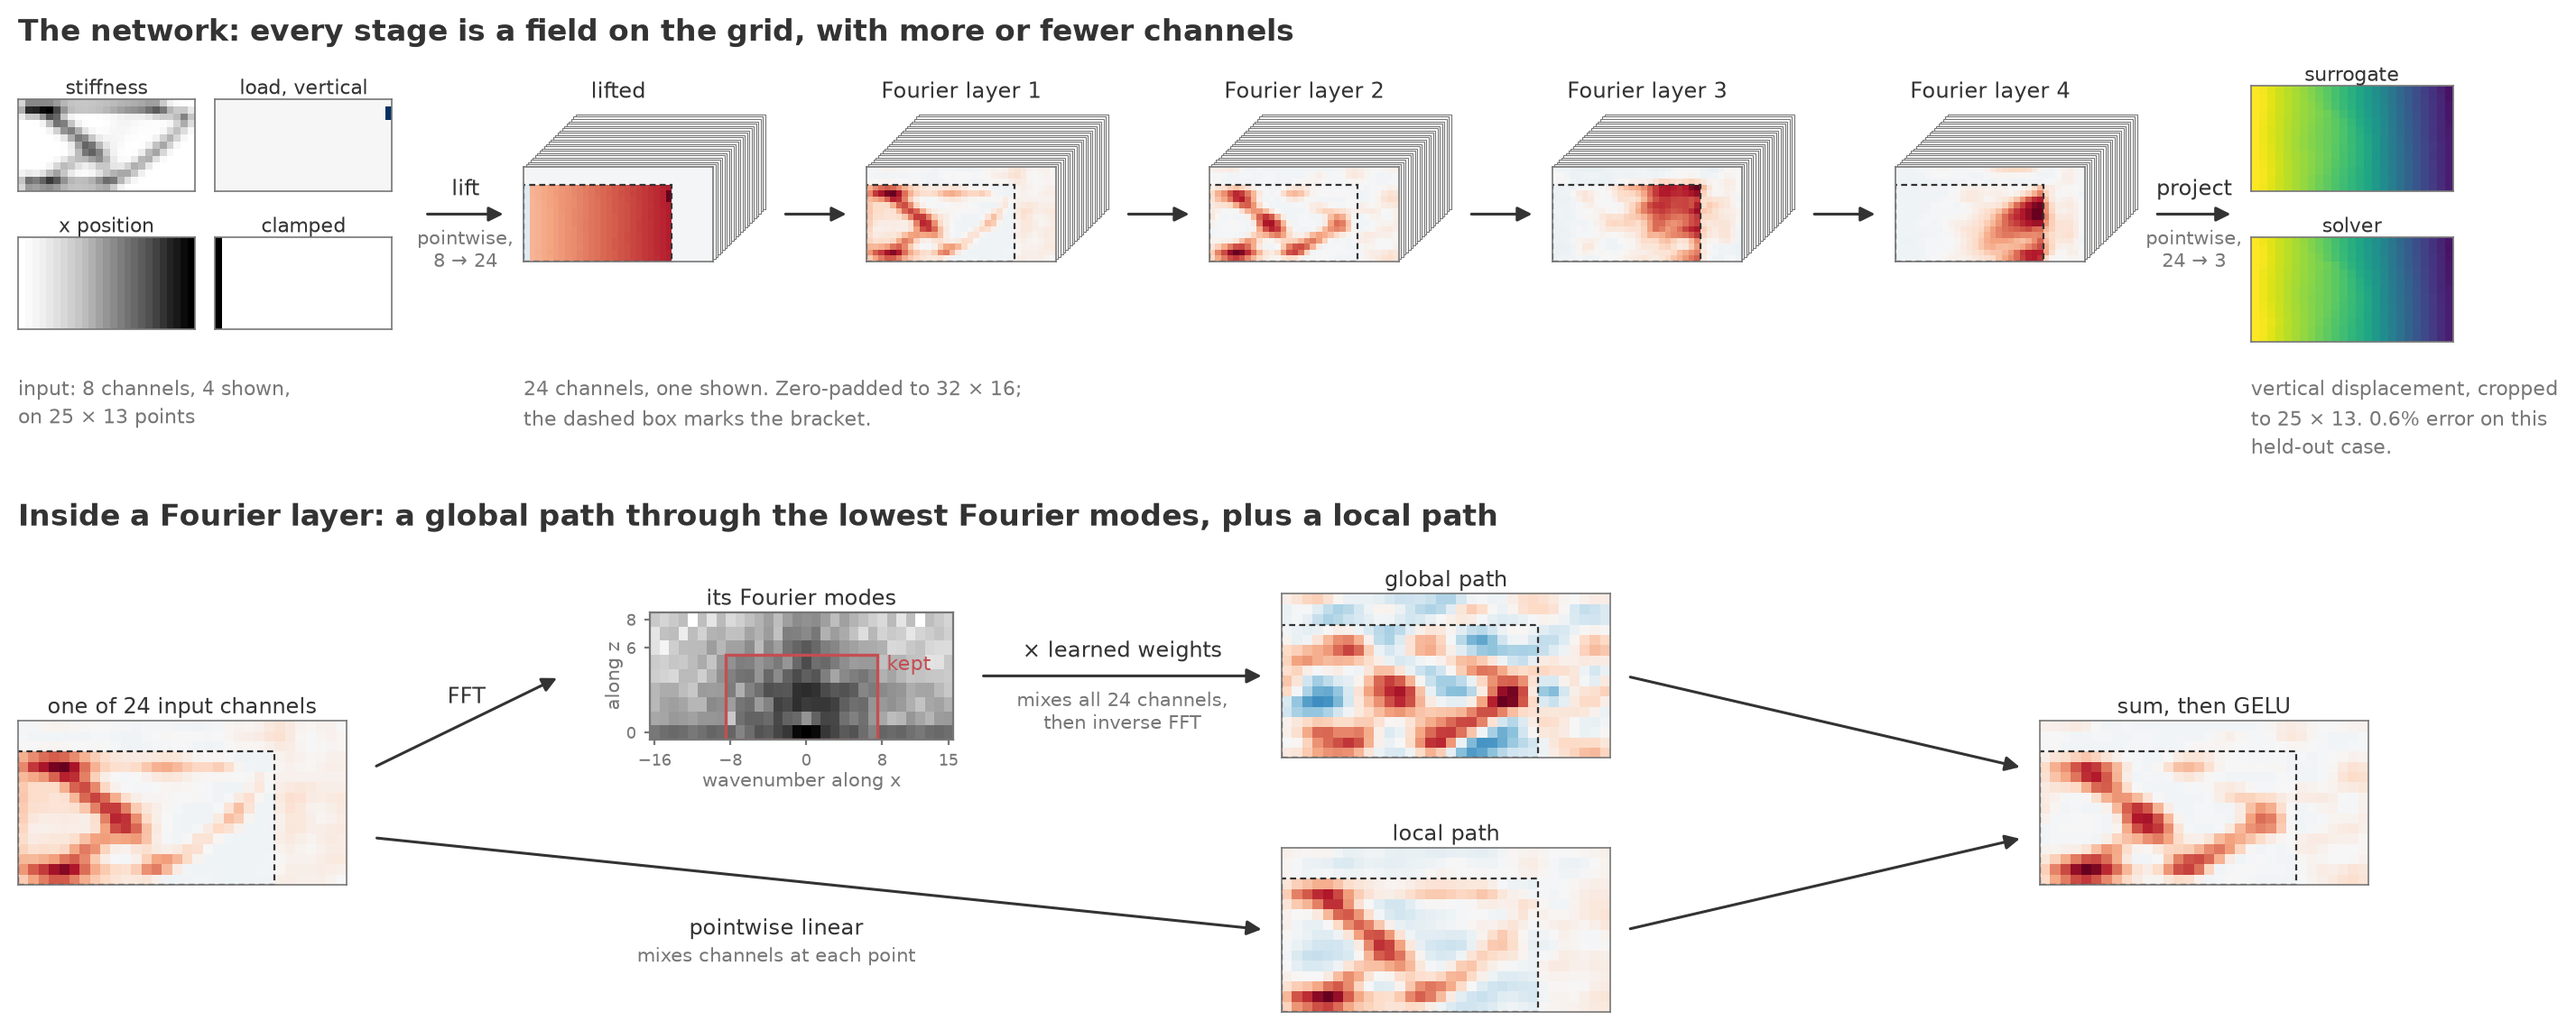
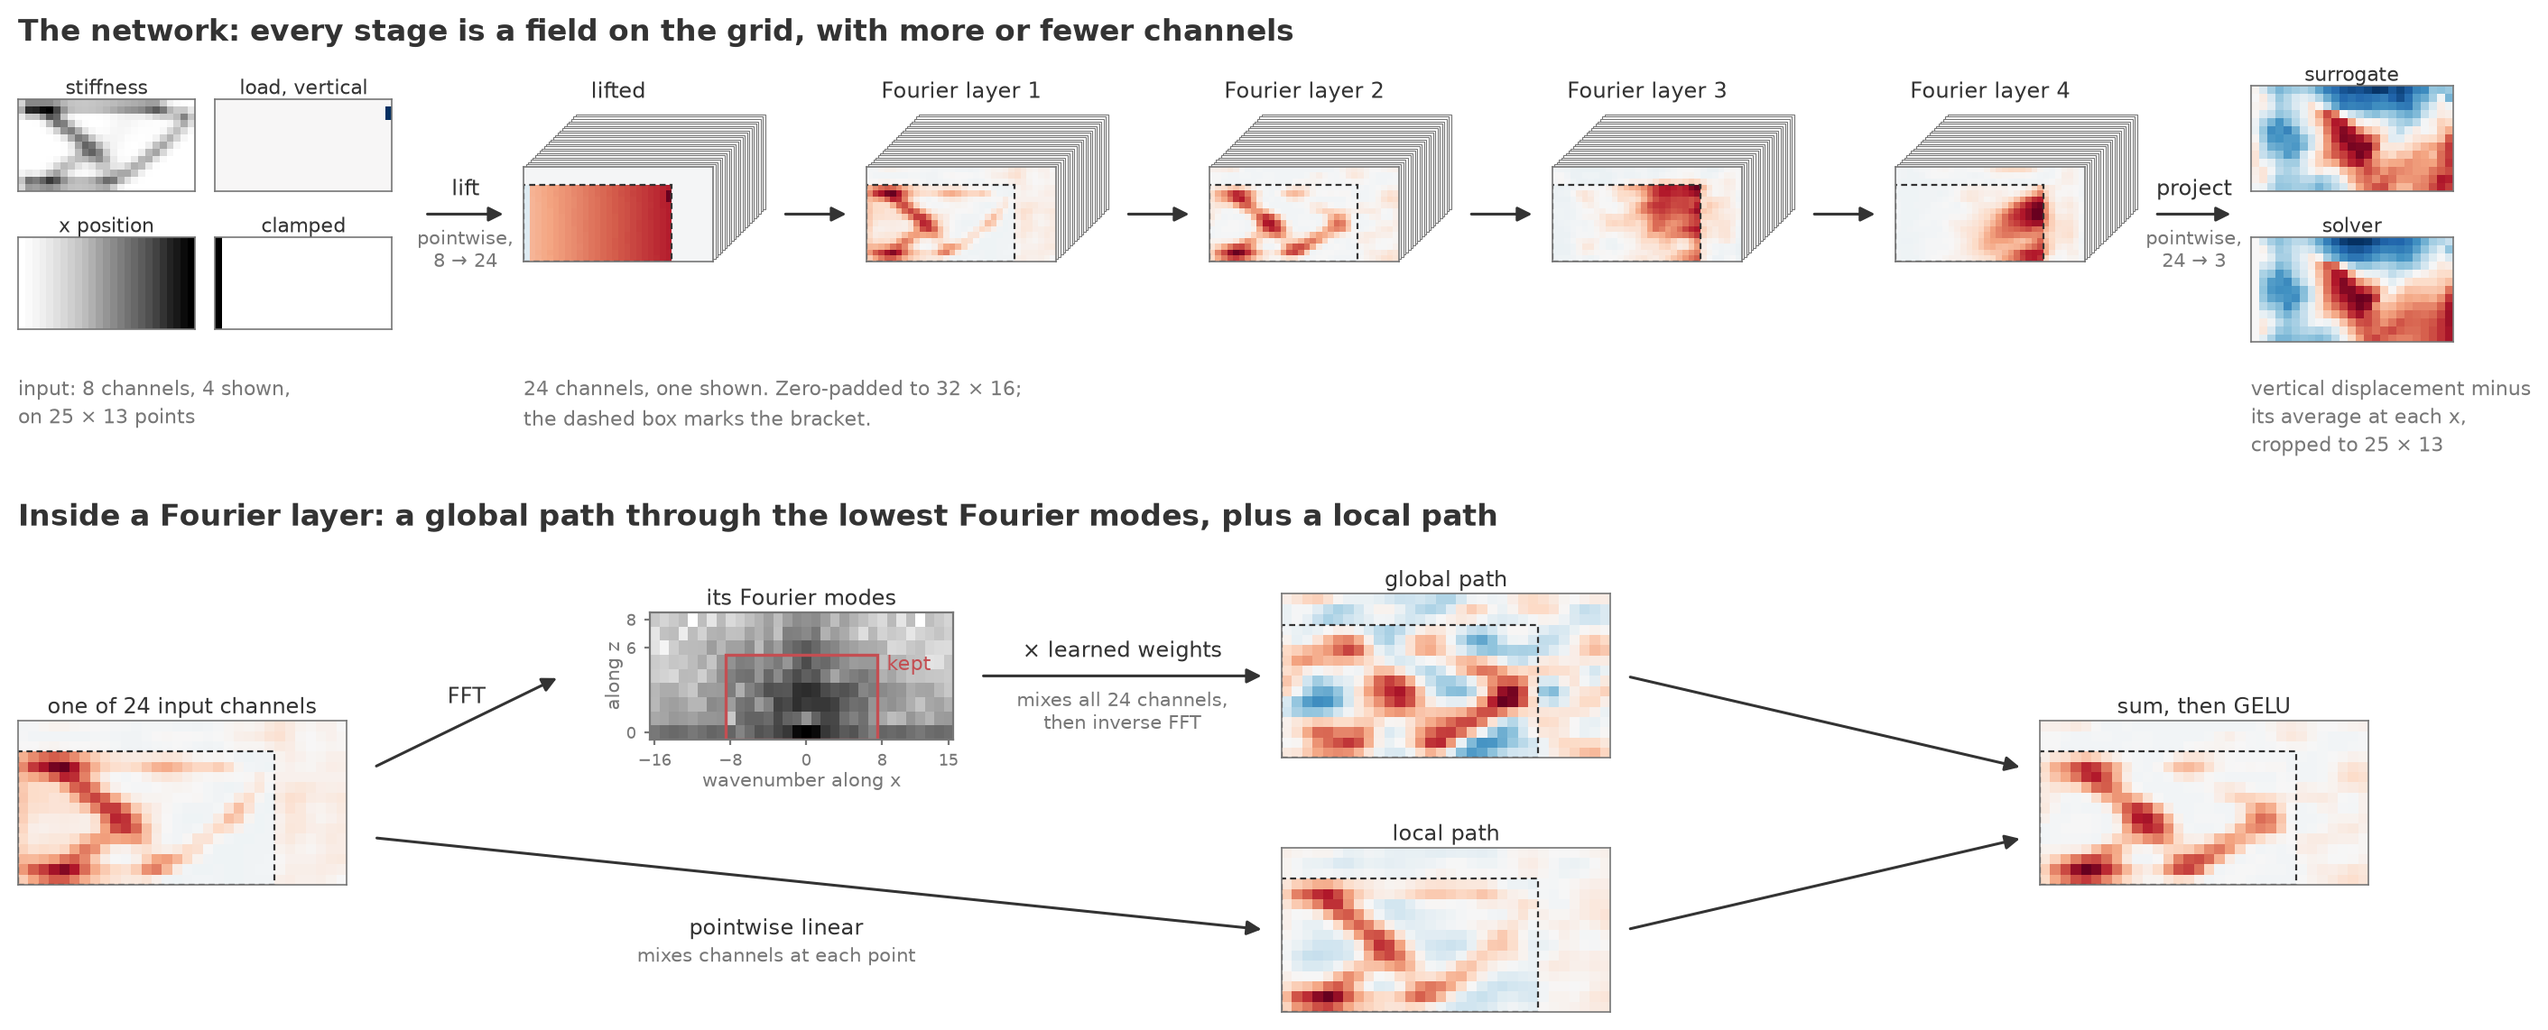
update fno figure

diff --git a/tutorial-topopt/make_fno_figure.py b/tutorial-topopt/make_fno_figure.py
@@ -121,7 +121,6 @@ def main() -> None:
     hidden, inside = activations(params, x)
     u_surrogate = np.asarray(no.to_grid(no.predict_displacement(params, u_scale, rho, forces, shape), shape))
     u_solver = np.asarray(no.to_grid(u_solver, shape))
-    error = np.linalg.norm(u_surrogate - u_solver) / np.linalg.norm(u_solver)
 
     fig = plt.figure(figsize=FIGSIZE, dpi=200)
 
@@ -157,17 +156,19 @@ def main() -> None:
     for left in lefts[:-1]:
         arrow(fig, (left + w + deck_right + 0.006, y1), (left + pitch - 0.006, y1))
 
+    # Vertical displacement is dominated by the bracket bending as a whole, a ramp from wall to tip.
+    # Subtracting the solver's average at each x leaves the part that depends on the design.
     out_left = lefts[-1] + pitch + 0.005
-    vmax = np.abs(u_solver[..., 2]).max()
+    bending = u_solver[..., 2].mean(axis=(1, 2), keepdims=True)
+    vmax = np.abs(side_view(u_solver[..., 2] - bending)).max()
     for j, (field, label) in enumerate([(u_surrogate, "surrogate"), (u_solver, "solver")]):
-        image = side_view(field[..., 2])
+        image = side_view(field[..., 2] - bending)
         h = 0.08 * image.shape[0] / image.shape[1] * ASPECT
         ax = image_axes(fig, out_left, y1 + 0.02 if j == 0 else y1 - 0.02 - h, 0.08, image)
-        show(ax, image, "viridis", vmin=-vmax, vmax=0)
+        show(ax, image, LATENT_CMAP, vmin=-vmax, vmax=vmax)
         ax.set_title(f"{label}", fontsize=8, color=INK, pad=2)
     arrow(fig, (lefts[-1] + w + deck_right + 0.006, y1), (out_left - 0.006, y1), "project", "pointwise,\n24 → 3")
-    note(fig, out_left, y1 - 0.14,
-         f"vertical displacement, cropped\nto 25 × 13. {100 * error:.1f}% error on this\nheld-out case.")
+    note(fig, out_left, y1 - 0.14, "vertical displacement minus\nits average at each x,\ncropped to 25 × 13")
 
     # ── Row 2: inside one Fourier layer ──────────────────────────────────────
     heading(fig, 0.45, "Inside a Fourier layer: a global path through the lowest Fourier modes, plus a local path")
@@ -216,7 +217,7 @@ def main() -> None:
 
     out_path = HERE / "assets" / "fno_architecture.png"
     fig.savefig(out_path, bbox_inches="tight", facecolor="white")
-    print(f"wrote {out_path}, sample error {100 * error:.1f}%")
+    print(f"wrote {out_path}")
 
 
 if __name__ == "__main__":
